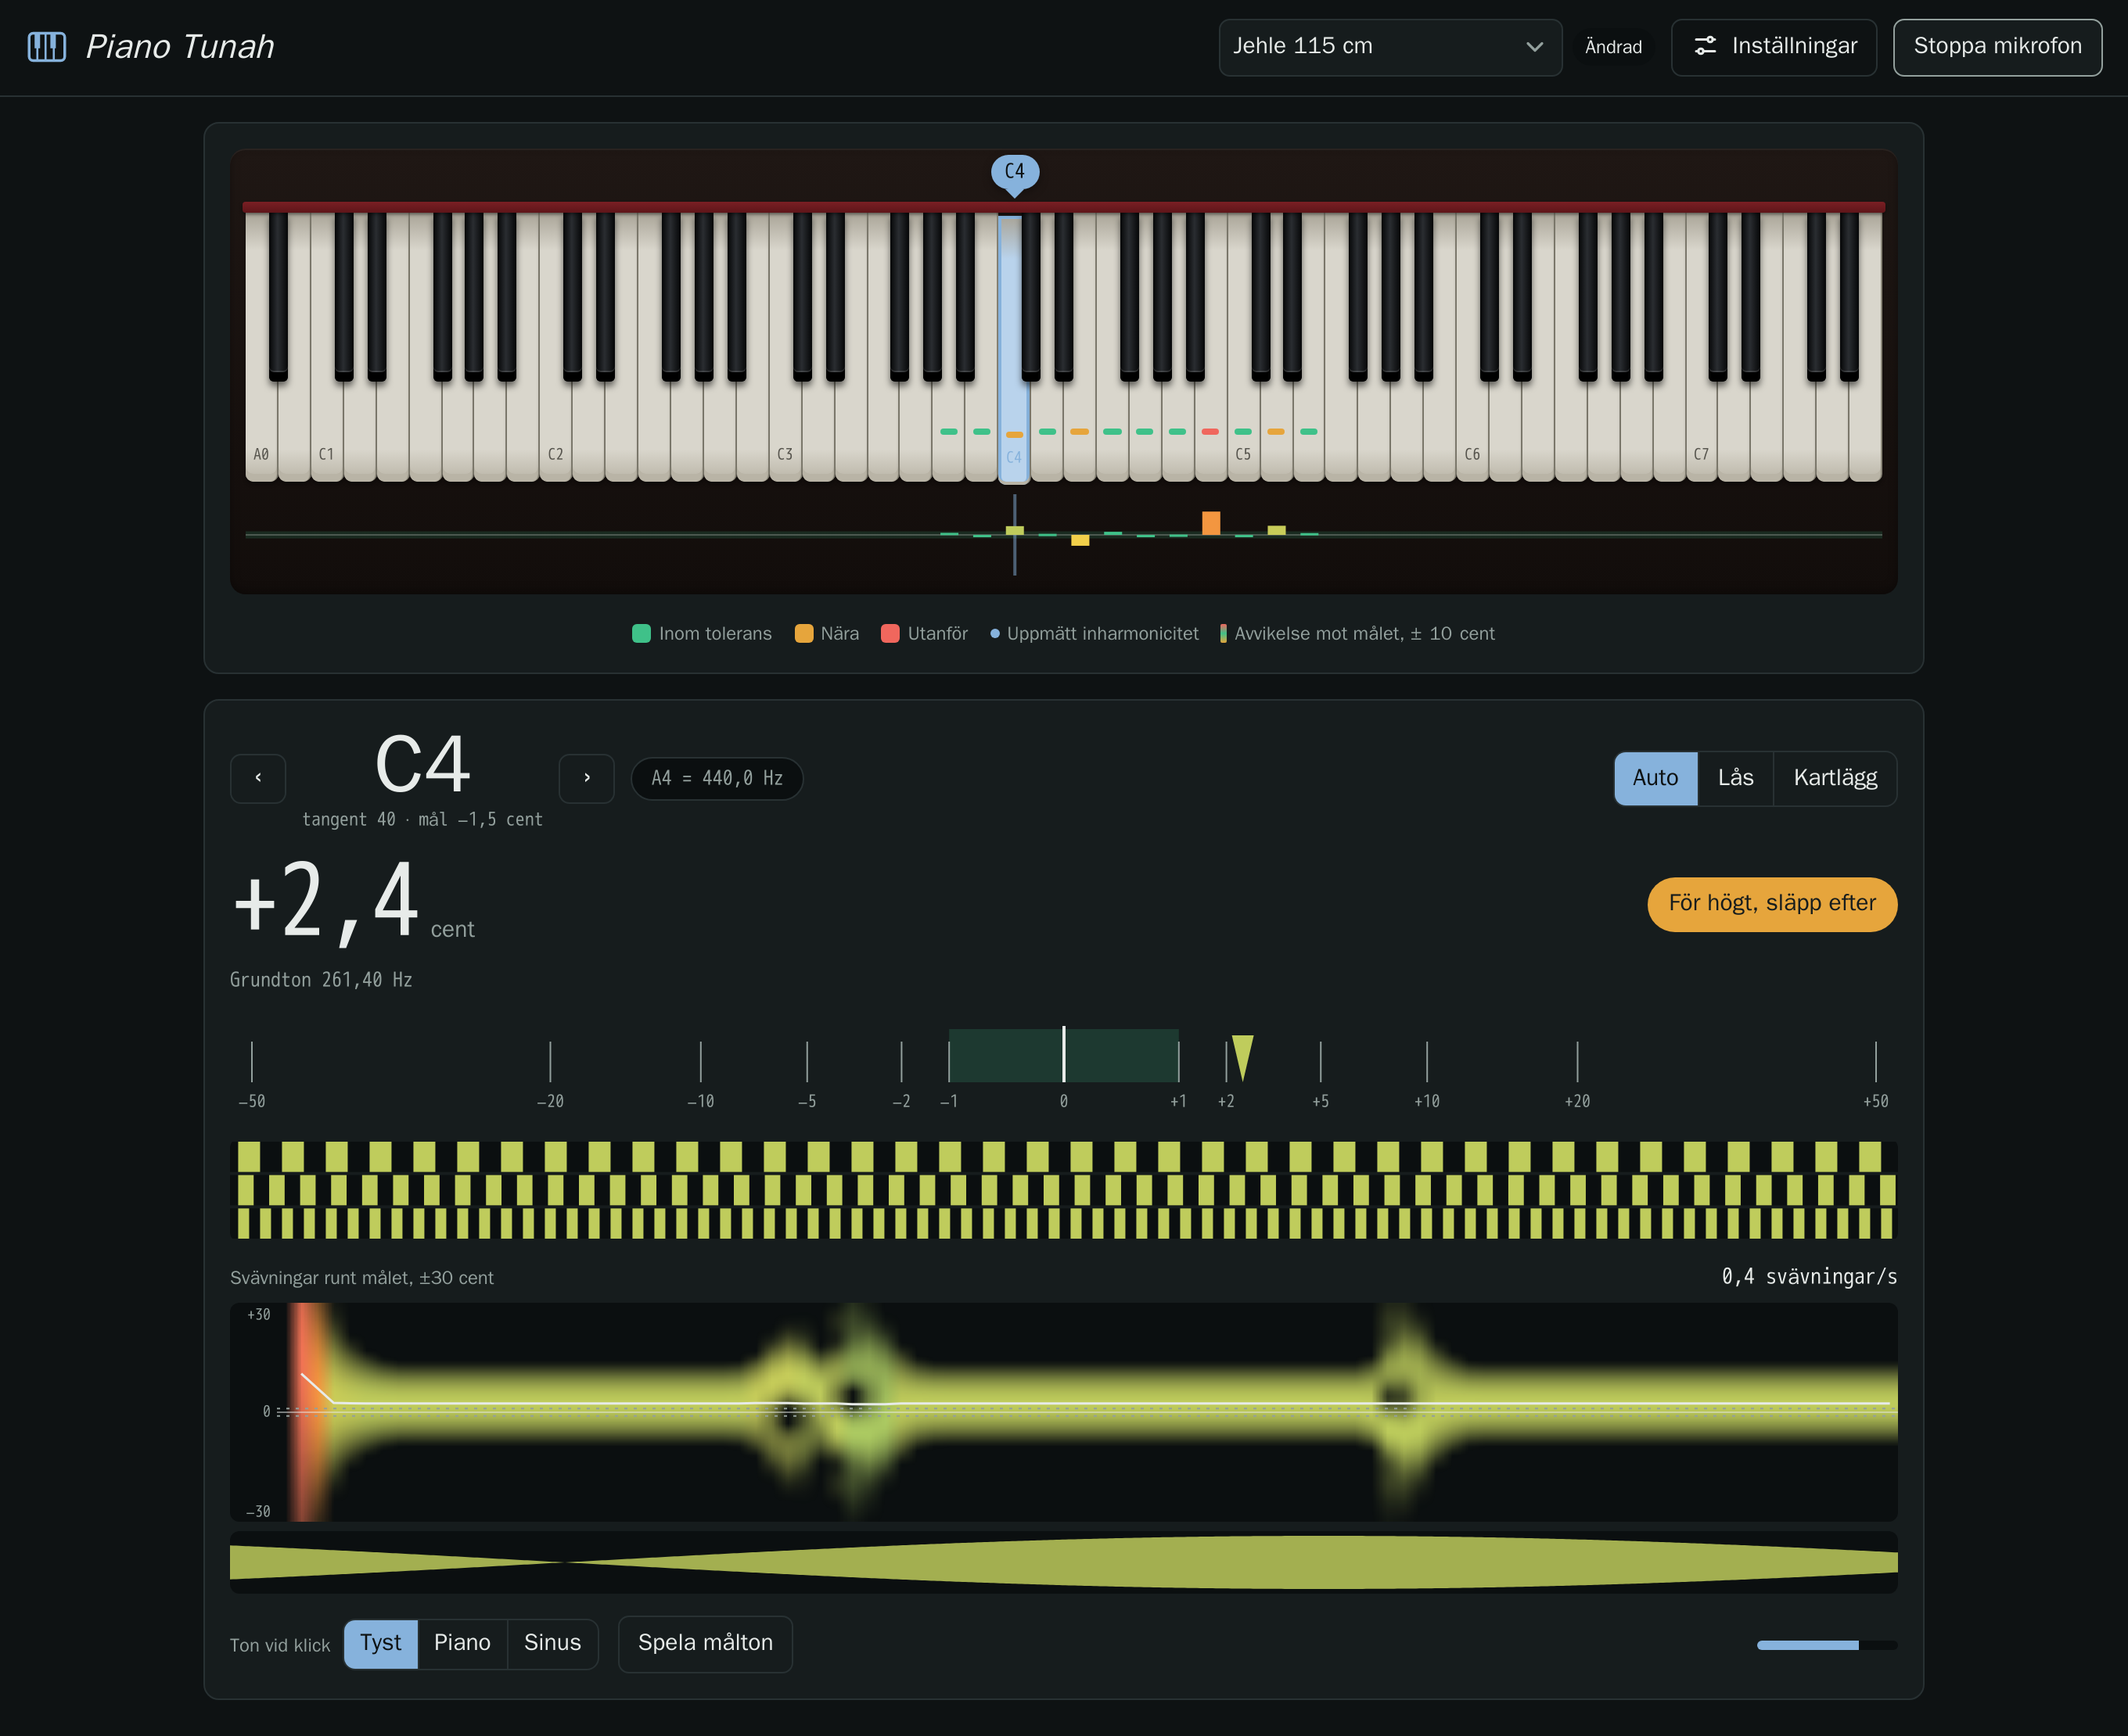
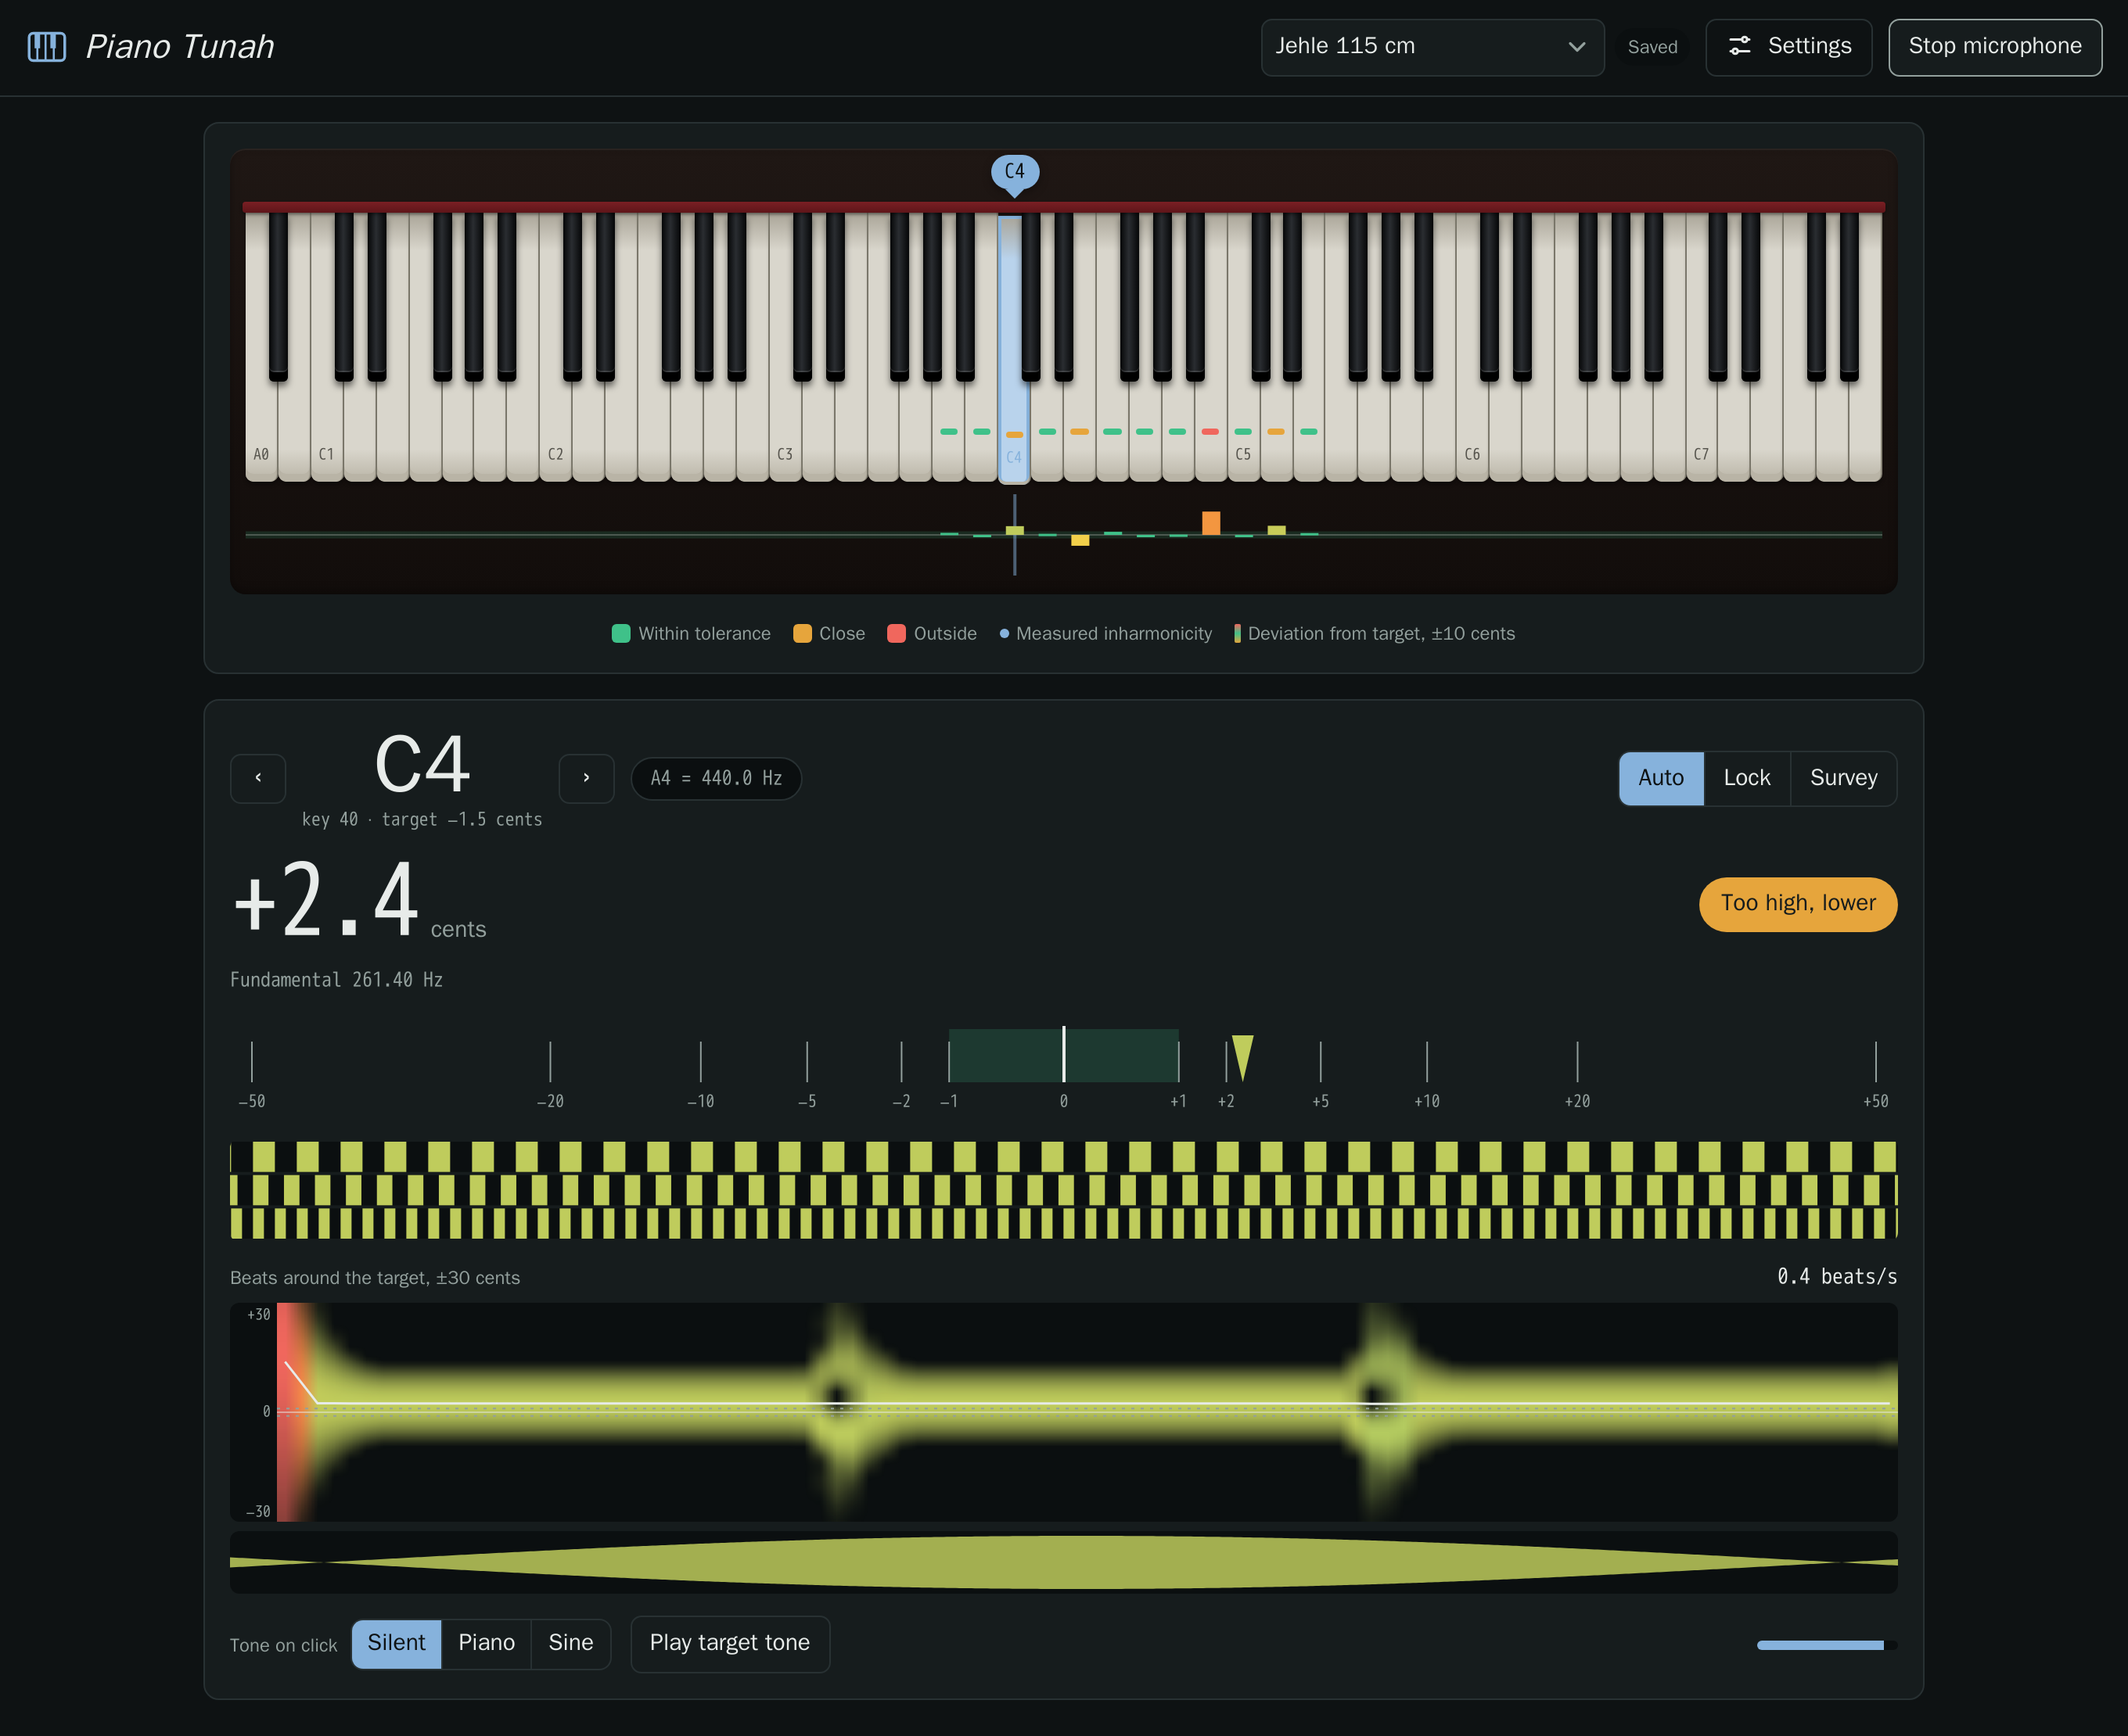
Translate README to English and retake the screenshots

diff --git a/README.md b/README.md
@@ -1,72 +1,75 @@
 # Piano Tunah
 
-Stämapparat för piano i webbläsaren. Lyssnar med datorns mikrofon, räknar fram stretch ur strängarnas inharmonicitet och sparar stämningar per piano.
+Piano tuner in the browser. Listens through the computer's microphone, computes stretch from the strings' inharmonicity and saves tunings per piano.
 
 <picture>
   <source media="(prefers-color-scheme: dark)" srcset="docs/screenshot-dark.png">
-  <img alt="Piano Tunah: klaviatur, avvikelse, stroboskop och svävningsspektrogram" src="docs/screenshot-light.png">
+  <img alt="Piano Tunah: keyboard, deviation, strobe and beat spectrogram" src="docs/screenshot-light.png">
 </picture>
 
-## Funktioner
+## Features
 
-- Tangentigenkänning A0–C8 och mätning på hundradels cent. I basen mäts delton 6, 4 eller 2.
-- Kartläggning: *Snabb* (A0–A6) eller *Hela pianot*. Mäter inharmonicitet och nuvarande tonhöjd.
-- Stretch med oktavtyp 2:1–8:4 per register, Railsback-kurva och extra stretch i ändarna.
-- Temperaturer: liksvävande, Werckmeister III, Kirnberger III, Vallotti, Young II, medelton ¼ och ⅙ komma.
-- Referens A4 380–480 Hz, eller satt efter pianots nuvarande tonhöjd. Överdrag vid uppdragning.
-- Stroboskop, svävningsspektrogram och referenston (piano eller sinus).
-- Avvikelse per tangent som staplar under klaviaturen; hela stämkurvan under Inställningar.
-- Pianino eller flygel, storlek i cm, 85 eller 88 tangenter.
-- Stämningar sparas på servern med historik per omgång. Export och import som JSON.
+- Key detection A0–C8 and measurement to a hundredth of a cent. In the bass, partial 6, 4 or 2 is measured.
+- Survey: *Quick* (A0–A6) or *Whole piano*. Measures inharmonicity and the current pitch.
+- Stretch with octave type 2:1–8:4 per register, Railsback curve and extra stretch at the ends.
+- Temperaments: equal, Werckmeister III, Kirnberger III, Vallotti, Young II, ¼- and ⅙-comma meantone.
+- Reference A4 380–480 Hz, or set from the piano's current pitch. Overpull for pitch raises, with a recommended amount when the piano is flat.
+- Strobe, beat spectrogram and reference tone (piano or sine).
+- Deviation per key as bars under the keyboard; the full tuning curve under Settings.
+- Upright or grand, size in cm, 85 or 88 keys.
+- Tunings are saved on the server with a history per pass. Export and import as JSON.
+- English and Swedish UI.
 
-## Teori
+## Theory
 
-**Inharmonicitet.** En styv sträng har deltoner över heltalsmultiplerna:
+**Inharmonicity.** A stiff string has partials above the integer multiples:
 
 $$f_n = n f_0 \sqrt{1 + B n^2}$$
 
-$B$ skattas per tangent ur de uppmätta deltonerna. Uttrycket är linjärt i $n^2$ och löses med minsta kvadrat:
+$B$ is estimated per key from the measured partials. The expression is linear in $n^2$ and solved by least squares:
 
 $$\left(\frac{f_n}{n}\right)^2 = f_0^2 + f_0^2 B\, n^2$$
 
-Innan pianot är mätt gissas $B$ ur instrumentets storlek. Uppmätta värden korrigerar gissningen, och korrektionen (kvoten mot modellen, i log-skala) interpoleras mellan mätta tangenter.
+Before the piano is measured, $B$ is guessed from the instrument's size. Measured values correct the guess, and the correction (the ratio to the model, on a log scale) is interpolated between measured keys.
 
-**Stretch.** Oktavtyp $p{:}q$ ($p = 2q$) gör delton $p$ i den undre tonen och delton $q$ i den övre svävningsfria. Med $B_1$ för den undre och $B_2$ för den övre strängen blir oktaven bredare än 1200 cent med
+**Stretch.** Octave type $p{:}q$ ($p = 2q$) makes partial $p$ of the lower note and partial $q$ of the upper note beatless. With $B_1$ for the lower and $B_2$ for the upper string, the octave is wider than 1200 cents by
 
 $$\Delta = 1200 \log_2 \frac{g(B_1, p)}{g(B_2, q)}, \qquad g(B, n) = \sqrt{\frac{1 + B n^2}{1 + B}}$$
 
-Temperaturoktaven A3–A4 läggs först. Därefter byggs oktaverna uppåt och nedåt en i taget.
+The temperament octave A3–A4 is laid first. Then the octaves are built up and down one at a time.
 
-**Temperatur.** En temperatur anges som avvikelsen från ren kvint för var och en av de tolv kvinterna. Summan är alltid $-\mathrm{PC}$, det pytagoreiska kommat (≈ 23,46 cent).
+**Temperament.** A temperament is given as the deviation from a pure fifth for each of the twelve fifths. The sum is always $-\mathrm{PC}$, the Pythagorean comma (≈ 23.46 cents).
 
-**Mätning.** En FFT (16 384 punkter) ger topparnas grova läge. Därefter förfinas frekvensen ur fasskillnaden $\Delta\varphi$ mellan två fönster förskjutna $H$ sampel:
+**Overpull.** When the pitch is raised, strings already tuned drop as the load on the plate and soundboard grows. Each key is tuned past the target by a share of how far it started from it: with 25%, a key at −16 cents is tuned to +4. The app recommends 25% when the middle of the piano is 10 cents or more flat.
+
+**Measurement.** An FFT (16,384 points) gives the rough position of the peaks. The frequency is then refined from the phase difference $\Delta\varphi$ between two windows offset by $H$ samples:
 
 $$f = f_c + \frac{f_s}{2\pi H}\,\mathrm{wrap}\left(\Delta\varphi - \frac{2\pi f_c H}{f_s}\right)$$
 
-där $\mathrm{wrap}$ lägger vinkeln i $(-\pi, \pi]$.
+where $\mathrm{wrap}$ puts the angle in $(-\pi, \pi]$.
 
 <picture>
   <source media="(prefers-color-scheme: dark)" srcset="docs/settings-dark.png">
-  <img alt="Inställningar med stämkurvan för ett pianino på 115 cm" src="docs/settings-light.png">
+  <img alt="Settings with the tuning curve for a 115 cm upright" src="docs/settings-light.png">
 </picture>
 
-## Drift
+## Running
 
 ```sh
-docker compose pull && docker compose up -d   # release-imagen från ghcr.io
-docker compose up -d --build                  # eller bygg lokalt
+docker compose pull && docker compose up -d   # release image from ghcr.io
+docker compose up -d --build                  # or build locally
 ```
 
-Imagen byggs `FROM scratch` (~7 MB) för amd64 och arm64: en statisk Go-binär med webbappen inbäddad. Containern kör read-only som uid 1000 utan capabilities, och data ligger i `./data`.
+The image is built `FROM scratch` (~7 MB) for amd64 and arm64: a static Go binary with the web app embedded. The container runs read-only as uid 1000 without capabilities, and data lives in `./data`.
 
-Mikrofonen kräver https. Routen `pianotunah.example.com` går via Traefik med `ip-allowlist` och nås bara från LAN.
+The microphone requires https. The route `pianotunah.example.com` goes through Traefik with `ip-allowlist` and is reachable from the LAN only.
 
-| Variabel   | Standard | |
-|------------|----------|-|
-| `ADDR`     | `:8080`  | lyssningsadress |
-| `DATA_DIR` | `/data`  | sparade stämningar (JSON) |
+| Variable   | Default | |
+|------------|---------|-|
+| `ADDR`     | `:8080` | listen address |
+| `DATA_DIR` | `/data` | saved tunings (JSON) |
 
-API: `GET /api/tunings`, `GET|PUT|DELETE /api/tunings/{id}`, `GET /api/version`, `GET /healthz`. `PUT` kräver dokumentets `rev` och svarar 409 om någon annan har sparat sedan dess.
+API: `GET /api/tunings`, `GET|PUT|DELETE /api/tunings/{id}`, `GET /api/version`, `GET /healthz`. `PUT` requires the document's `rev` and answers 409 if someone else has saved since.
 
 ## Release
 
@@ -75,9 +78,9 @@ git tag -a v1.2.0 -m v1.2.0
 git push origin v1.2.0
 ```
 
-GitHub Actions kör testerna och publicerar `ghcr.io/riborg/pianotunah` med taggarna `1.2.0`, `1.2`, `1` och `latest`. Därefter skapas en GitHub Release med commits sedan förra taggen. Förhandsversioner (`v1.2.0-rc.1`) får inte `latest`.
+GitHub Actions runs the tests and publishes `ghcr.io/riborg/pianotunah` with the tags `1.2.0`, `1.2`, `1` and `latest`. A GitHub Release is then created with the commits since the previous tag. Pre-releases (`v1.2.0-rc.1`) do not get `latest`.
 
-Servern följer `latest`. Paketet är privat, så den som hämtar imagen behöver en token med `read:packages`:
+The server follows `latest`. The package is private, so pulling the image needs a token with `read:packages`:
 
 ```sh
 gh auth refresh -h github.com -s read:packages
@@ -85,28 +88,29 @@ gh auth token | docker login ghcr.io -u riborg --password-stdin
 docker compose pull && docker compose up -d
 ```
 
-Ett verktyg som uppdaterar via Docker-socketen, till exempel Dockhand, använder inte `docker login`. Det behöver samma token i sina egna registerinställningar.
+A tool that updates through the Docker socket, such as Dockhand, does not use `docker login`. It needs the same token in its own registry settings.
 
-## Utveckling
+## Development
 
 ```sh
-# Enhetstester (teori och signalbehandling)
+# Unit tests (theory and signal processing)
 docker run --rm -v "$PWD":/app -w /app node:22-alpine npm test
 
-# End-to-end: headless Chrome med syntetisk pianoton som mikrofon.
-# Med en katalog som andra argument tas även skärmdumparna i docs/.
+# End-to-end: headless Chrome with a synthetic piano tone as the microphone.
+# With a directory as the second argument, the screenshots in docs/ are retaken.
 docker run --rm --network caddy -v "$PWD":/usr/src/app/pt zenika/alpine-chrome:with-puppeteer \
   node pt/test/e2e.mjs http://pianotunah:8080 [pt/docs]
 ```
 
-| Fil | |
-|-----|-|
-| `.github/workflows/` | CI och release |
-| `main.go` | server: statiska filer och `/api/tunings` |
-| `web/js/theory.js` | temperaturer, inharmonicitet, stretch, målfrekvenser |
-| `web/js/dsp.js` | FFT, tangentigenkänning, deltonsmätning, skattning av $B$ |
-| `web/js/draw.js` | canvasritning |
-| `web/js/mapping.js` | kartläggningens planer och klar-kriterier |
-| `web/js/saver.js` | sparkö med versionskontroll |
-| `web/js/mic.js`, `tone.js` | mikrofon och referenstoner |
-| `web/js/app.js` | tillstånd, DOM och händelser |
+| File | |
+|------|-|
+| `.github/workflows/` | CI and release |
+| `main.go` | server: static files and `/api/tunings` |
+| `web/js/theory.js` | temperaments, inharmonicity, stretch, target frequencies |
+| `web/js/dsp.js` | FFT, key detection, partial measurement, estimation of $B$ |
+| `web/js/draw.js` | canvas drawing |
+| `web/js/mapping.js` | survey plans and completion criteria |
+| `web/js/saver.js` | save queue with revision check |
+| `web/js/mic.js`, `tone.js` | microphone and reference tones |
+| `web/js/i18n.js`, `lang/` | UI strings (English, Swedish) |
+| `web/js/app.js` | state, DOM and events |
